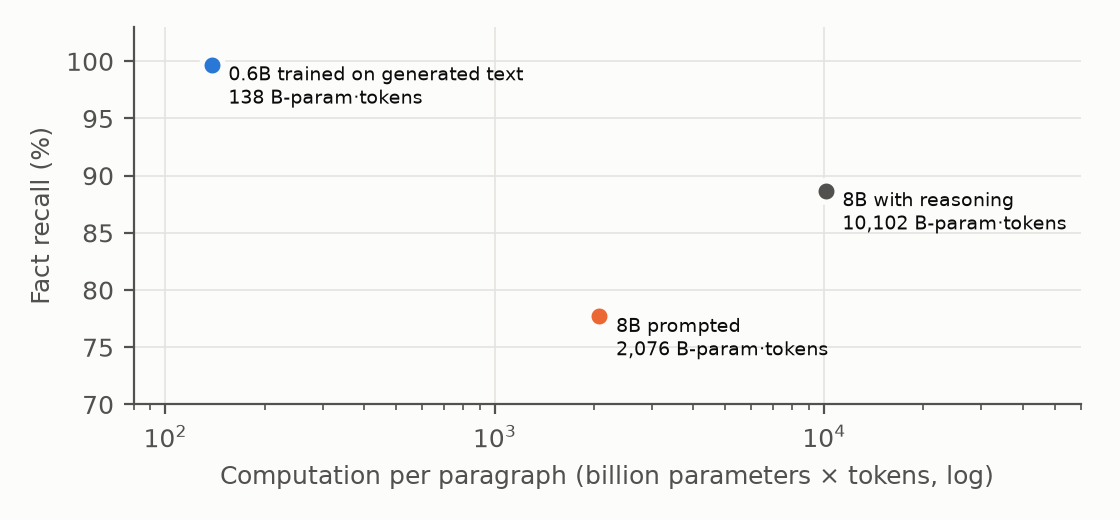
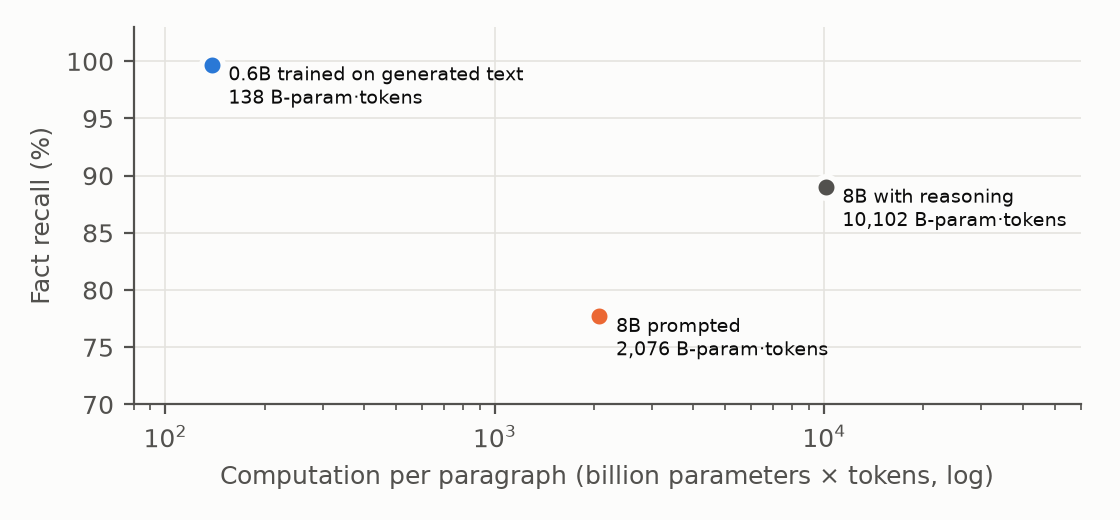
hooke-memory: figure 3 uses recall from the same run as its token count

Changed region(s): [[0.7188, 0.3385, 0.9688, 0.4615]]

diff --git a/crates/hooke-memory/scripts/figures.py b/crates/hooke-memory/scripts/figures.py
@@ -77,11 +77,12 @@ cost = {k: (0.6 if k.startswith("0.6") else 8.0) * (v["prompt_tokens"] + v["gene
 tf = R / "p15/p15-think.jsonl.tokens.json"
 if tf.exists():
     v = json.loads(tf.read_text()); cost["8B with reasoning"] = 8.0 * (v["prompt_tokens"] + v["generated_tokens"]) / v["paragraphs"]
+gen3 = dict(gen); gen3["8B with reasoning"] = load("p15/p15-score.json")  # recall from the same run as its tokens
 fig, ax = plt.subplots(figsize=(5.6, 2.6))
 for name, c in series:
     if name in cost:
-        ax.scatter(cost[name], gen[name][1], s=60, color=c, edgecolor=SURF, linewidth=2, zorder=3)
-        ax.annotate(f"{name}\n{cost[name]:,.0f} B-param·tokens", (cost[name], gen[name][1]), textcoords="offset points", xytext=(6, -14), fontsize=7, color=INK)
+        ax.scatter(cost[name], gen3[name][1], s=60, color=c, edgecolor=SURF, linewidth=2, zorder=3)
+        ax.annotate(f"{name}\n{cost[name]:,.0f} B-param·tokens", (cost[name], gen3[name][1]), textcoords="offset points", xytext=(6, -14), fontsize=7, color=INK)
 ax.set_xscale("log"); ax.set_xlim(80, 60000); ax.set_xlabel("Computation per paragraph (billion parameters × tokens, log)"); ax.set_ylabel("Fact recall (%)")
 ax.set_ylim(70, 103); ax.grid(color=GRID, lw=0.6); ax.set_axisbelow(True)
 fig.tight_layout(); fig.savefig(OUT / "fig3-computation.pdf"); fig.savefig(OUT / "fig3-computation.png"); plt.close(fig)
